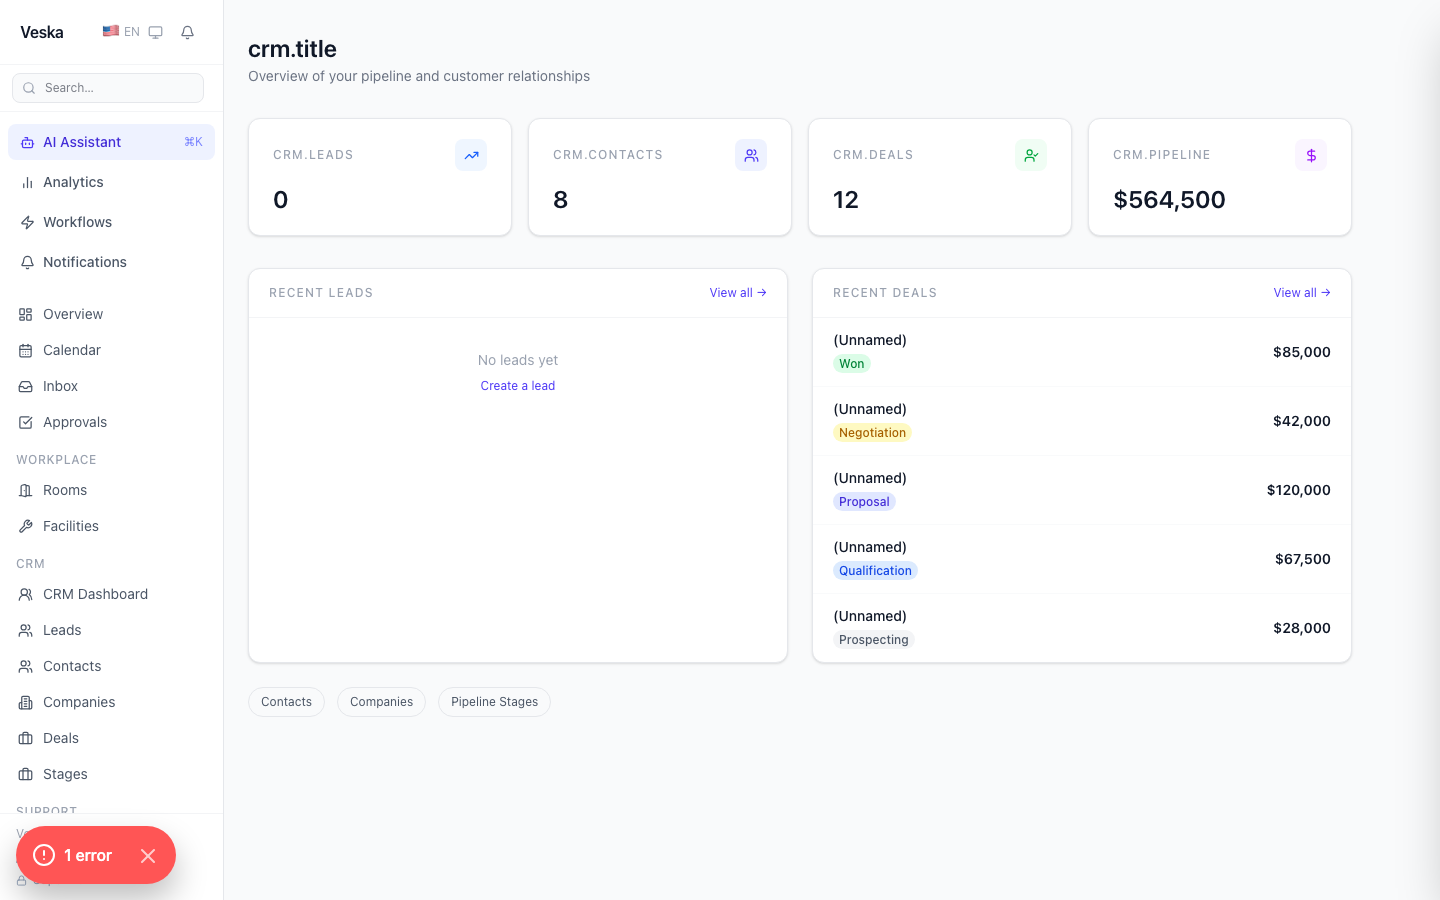
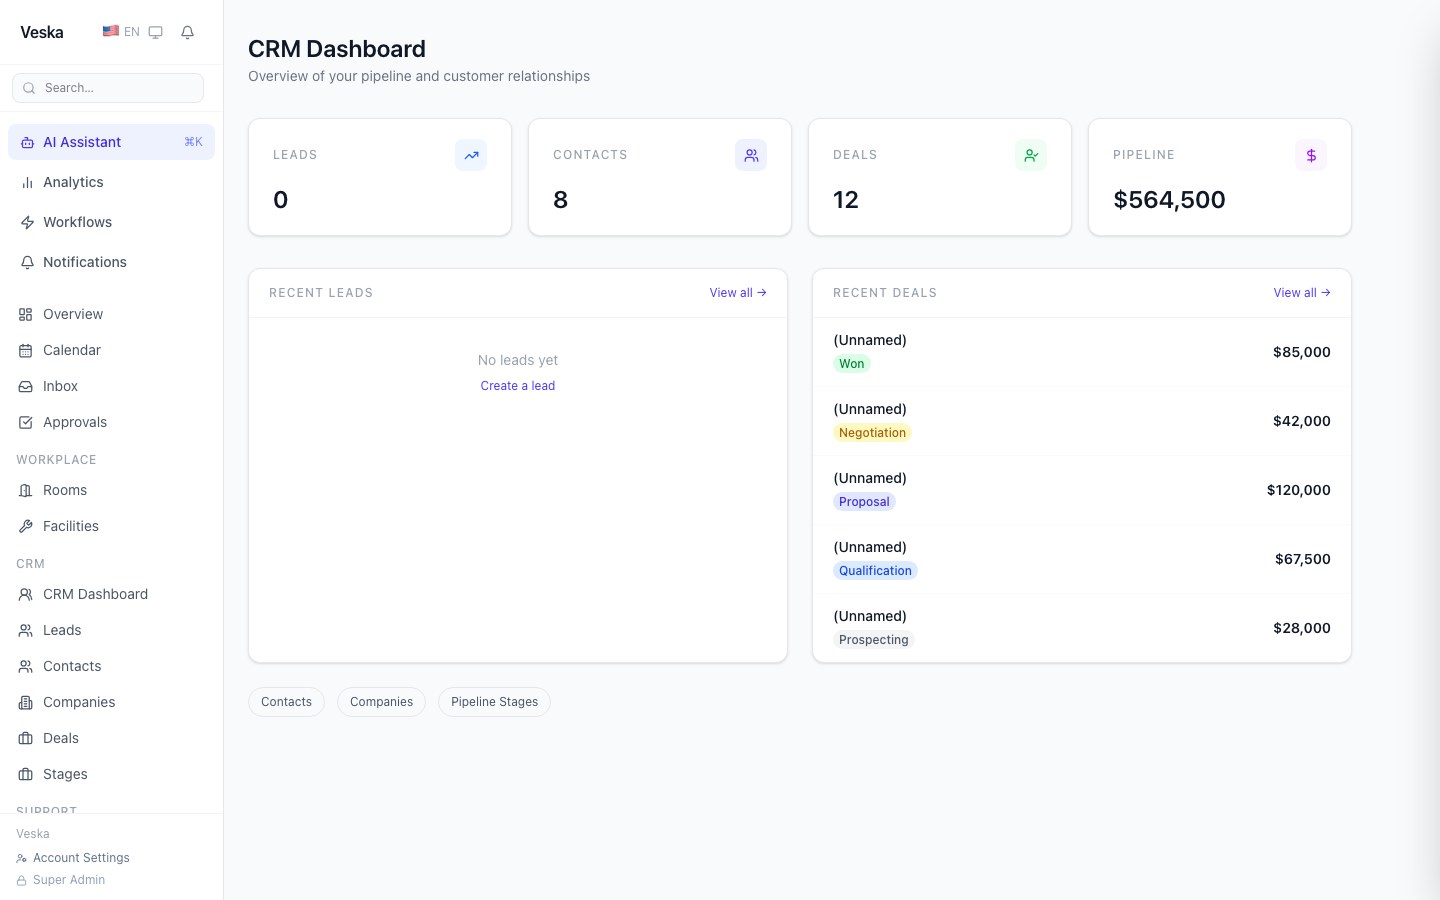
docs: refresh all screenshots — i18n fixed, support + approvals added
All 13 screenshots retaken from the live app after this phase's changes:
- CRM now shows proper labels (Leads/Contacts/Deals/Pipeline) not raw keys
- HR now shows proper labels (HR & People, Employees, Leave Requests)
- New: screenshot-support.png — support inbox two-panel UI
- New: screenshot-approvals.png — approvals queue with Pending/All tabs
- New: screenshot-hr.png — HR dashboard with fixed i18n

README grid updated: Dashboard, CRM, Support, Channels, Workflows,
Developer portal, Settings, Login — all real live screenshots.

diff --git a/apps/admin/e2e/take-screenshots.spec.ts b/apps/admin/e2e/take-screenshots.spec.ts
@@ -1,68 +1,63 @@
 /**
- * Screenshot capture script — takes real screenshots of every major page.
- * Run: npx playwright test e2e/take-screenshots.spec.ts --reporter=line
+ * Screenshot capture — takes real screenshots of every major page.
+ * Run: npx playwright test e2e/take-screenshots.spec.ts --timeout=120000 --reporter=line
  */
 import { test, Page, BrowserContext } from '@playwright/test';
 import * as fs from 'fs';
 import * as path from 'path';
 
 const BASE  = 'http://localhost:3000';
-const TENANT_ID    = '608cb01b-ad89-4e51-b690-65ffa4400fe5';
-const IDENTITY_ID  = 'c66aa930-ec16-421c-9616-731b4aee618c';
+const TENANT_ID     = '608cb01b-ad89-4e51-b690-65ffa4400fe5';
+const IDENTITY_ID   = 'c66aa930-ec16-421c-9616-731b4aee618c';
 const SESSION_TOKEN = 'dev-test-token-veska-2026';
 const OUT_DIR = path.join(__dirname, '../../../docs/images');
 
 async function seedCookies(ctx: BrowserContext) {
   await ctx.addCookies([
-    { name: 'veska_session',       value: SESSION_TOKEN,  domain: 'localhost', path: '/' },
-    { name: 'veska_tenant',        value: TENANT_ID,      domain: 'localhost', path: '/' },
-    { name: 'veska_identity',      value: IDENTITY_ID,    domain: 'localhost', path: '/' },
-    { name: 'veska_onboarding_done', value: 'true',       domain: 'localhost', path: '/' },
+    { name: 'veska_session',        value: SESSION_TOKEN, domain: 'localhost', path: '/' },
+    { name: 'veska_tenant',         value: TENANT_ID,     domain: 'localhost', path: '/' },
+    { name: 'veska_identity',       value: IDENTITY_ID,   domain: 'localhost', path: '/' },
+    { name: 'veska_onboarding_done',value: 'true',        domain: 'localhost', path: '/' },
   ]);
 }
 
-async function shot(page: Page, route: string, filename: string, waitFor?: string) {
+async function shot(page: Page, route: string, filename: string) {
   await page.goto(`${BASE}${route}`, { waitUntil: 'load', timeout: 25000 });
-  if (waitFor) await page.waitForSelector(waitFor, { timeout: 6000 }).catch(() => {});
   await page.waitForTimeout(1800);
-  const dest = path.join(OUT_DIR, filename);
-  await page.screenshot({ path: dest, fullPage: false });
+  await page.screenshot({ path: path.join(OUT_DIR, filename), fullPage: false });
   console.log(`✓ ${filename}`);
 }
 
 test('capture all screenshots', async ({ browser }) => {
   fs.mkdirSync(OUT_DIR, { recursive: true });
 
-  // Create a context, seed cookies, then use it for all screenshots
-  const ctx = await browser.newContext({ viewport: { width: 1440, height: 900 } });
-  const page = await ctx.newPage();
-
-  // Touch the domain first so cookies can be set, then seed
-  await page.goto(BASE, { waitUntil: 'domcontentloaded' });
-  await seedCookies(ctx);
-
-  // ── Login (no auth needed) ────────────────────────────────
-  // Use a fresh context without session to capture login page
+  // Login page (no auth)
   const loginCtx = await browser.newContext({ viewport: { width: 1440, height: 900 } });
   const loginPage = await loginCtx.newPage();
-  await loginPage.goto(`${BASE}/login`, { waitUntil: 'networkidle', timeout: 20000 });
+  await loginPage.goto(`${BASE}/login`, { waitUntil: 'load', timeout: 20000 });
   await loginPage.waitForTimeout(1000);
   await loginPage.screenshot({ path: path.join(OUT_DIR, 'screenshot-login.png') });
   console.log('✓ screenshot-login.png');
   await loginCtx.close();
 
-  // ── Authenticated pages ───────────────────────────────────
-  await shot(page, '/dashboard',                      'screenshot-dashboard.png',  'h1, [data-testid="dashboard"]');
-  await shot(page, '/dashboard/crm',                  'screenshot-crm.png');
-  await shot(page, '/dashboard/finance/invoices',     'screenshot-invoices.png');
-  await shot(page, '/dashboard/hr',                   'screenshot-employees.png');
-  await shot(page, '/dashboard/analytics',            'screenshot-analytics.png');
-  await shot(page, '/dashboard/reports',              'screenshot-reports.png');
-  await shot(page, '/dashboard/channels',             'screenshot-channels.png');
-  await shot(page, '/dashboard/developer',            'screenshot-developer.png');
-  await shot(page, '/dashboard/workflows',            'screenshot-workflows.png');
-  await shot(page, '/dashboard/settings',             'screenshot-settings.png');
-  await shot(page, '/dashboard/ai',                   'screenshot-ai.png');
+  // Authenticated pages
+  const ctx = await browser.newContext({ viewport: { width: 1440, height: 900 } });
+  const page = await ctx.newPage();
+  await page.goto(BASE, { waitUntil: 'domcontentloaded' });
+  await seedCookies(ctx);
+
+  await shot(page, '/dashboard',                  'screenshot-dashboard.png');
+  await shot(page, '/dashboard/crm',              'screenshot-crm.png');
+  await shot(page, '/dashboard/support',          'screenshot-support.png');
+  await shot(page, '/dashboard/approvals',        'screenshot-approvals.png');
+  await shot(page, '/dashboard/finance/invoices', 'screenshot-invoices.png');
+  await shot(page, '/dashboard/hr',               'screenshot-hr.png');
+  await shot(page, '/dashboard/channels',         'screenshot-channels.png');
+  await shot(page, '/dashboard/developer',        'screenshot-developer.png');
+  await shot(page, '/dashboard/workflows',        'screenshot-workflows.png');
+  await shot(page, '/dashboard/settings',         'screenshot-settings.png');
+  await shot(page, '/dashboard/analytics',        'screenshot-analytics.png');
+  await shot(page, '/dashboard/reports',          'screenshot-reports.png');
 
   await ctx.close();
 });

diff --git a/README.md b/README.md
@@ -26,10 +26,18 @@ Once configured, almost nobody logs in. Employees, customers, and vendors intera
 <table>
   <tr>
     <td><img src="docs/images/screenshot-dashboard.png" alt="Dashboard" /></td>
+    <td><img src="docs/images/screenshot-crm.png" alt="CRM" /></td>
+  </tr>
+  <tr>
+    <td align="center"><em>Dashboard — live KPIs across finance, HR &amp; ops</em></td>
+    <td align="center"><em>CRM — 8 contacts, 12 deals, $564K pipeline</em></td>
+  </tr>
+  <tr>
+    <td><img src="docs/images/screenshot-support.png" alt="Support inbox" /></td>
     <td><img src="docs/images/screenshot-channels.png" alt="Channels" /></td>
   </tr>
   <tr>
-    <td align="center"><em>Dashboard — live KPIs, finance, HR &amp; ops at a glance</em></td>
+    <td align="center"><em>Support inbox — tickets from Slack, Email &amp; WhatsApp</em></td>
     <td align="center"><em>Channels — connect Slack, Email, WhatsApp &amp; Telegram</em></td>
   </tr>
   <tr>
@@ -37,16 +45,8 @@ Once configured, almost nobody logs in. Employees, customers, and vendors intera
     <td><img src="docs/images/screenshot-developer.png" alt="Developer portal" /></td>
   </tr>
   <tr>
-    <td align="center"><em>Workflows — visual AI automation builder</em></td>
-    <td align="center"><em>Developer portal — API keys, webhooks, job queues</em></td>
-  </tr>
-  <tr>
-    <td><img src="docs/images/screenshot-reports.png" alt="Reports" /></td>
-    <td><img src="docs/images/screenshot-invoices.png" alt="Invoices" /></td>
-  </tr>
-  <tr>
-    <td align="center"><em>Reports — custom report builder with AI narrative</em></td>
-    <td align="center"><em>Invoices — full lifecycle, filters &amp; recurring billing</em></td>
+    <td align="center"><em>Workflows — AI-powered automation builder</em></td>
+    <td align="center"><em>Developer portal — API keys, webhooks &amp; job queues</em></td>
   </tr>
   <tr>
     <td><img src="docs/images/screenshot-settings.png" alt="Settings" /></td>
@@ -54,7 +54,7 @@ Once configured, almost nobody logs in. Employees, customers, and vendors intera
   </tr>
   <tr>
     <td align="center"><em>Settings — company profile, roles &amp; integrations</em></td>
-    <td align="center"><em>Login — password, magic link &amp; SSO (Google, GitHub, Microsoft)</em></td>
+    <td align="center"><em>Login — password, magic link &amp; SSO</em></td>
   </tr>
 </table>
 
